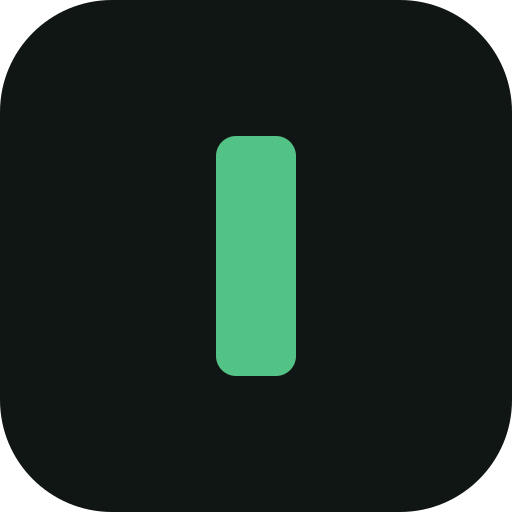
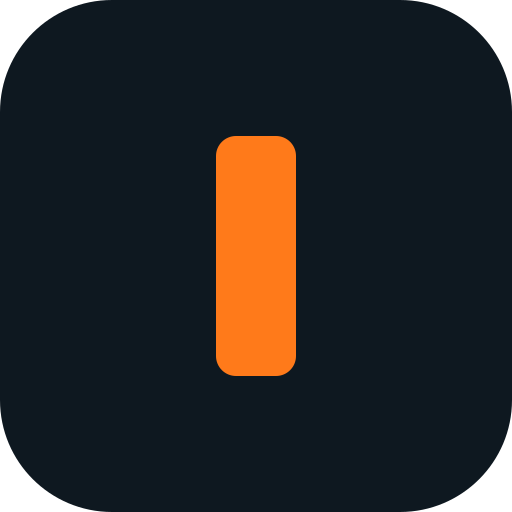
Profile: new mark colours and description to match the site

Changed region(s): [[0.4062, 0.25, 0.5938, 0.75]]

diff --git a/profile/README.md b/profile/README.md
@@ -1,15 +1,15 @@
 <div align="center">
   <img src="marchio.svg" width="88" alt="">
   <h1>mitis</h1>
-  <p><b>Boring cloud infrastructure. At half the cost.</b><br>
-  <sub>Infrastruttura cloud noiosa, e che costa la metà — Cloud & DevOps consultancy, Italy.</sub></p>
+  <p><b>We cut cloud spend and fix the infrastructure your software runs on.</b><br>
+  <sub>Riduciamo la spesa cloud e sistemiamo l'infrastruttura su cui gira il tuo software.</sub></p>
   <p><a href="https://mitis.dev">mitis.dev</a></p>
 </div>
 
-Cloud & DevOps consultancy for scaleups and SMBs. Platforms on AWS, GCP and
-Azure: Terraform + Atmos, Kubernetes, GitOps with ArgoCD, promotions with
-Kargo, FinOps as a daily practice. Fixed price with a guaranteed outcome, and
-every line of code in the client's repositories, from the first commit.
+A studio of cloud engineers for software companies on AWS, Google Cloud and
+Azure. Three services: cloud cost reduction, Kubernetes platforms, release
+automation. Free initial analysis, then a fixed price agreed in writing, and
+every line of code in the client's repositories from the first commit.
 
 ```console
 $ man mitis
@@ -32,5 +32,5 @@ a Kubernetes operator (Apache 2.0) for high availability of single-replica
 workloads. In a real spot interruption, measured on EKS: 1 request lost out
 of 764 — less than an ordinary rolling update.
 
-**Let's talk** — a technical call, not a demo:
-[mitis.dev](https://mitis.dev) · no sales reps, no pushy follow-ups.
+**Let's talk**: half an hour on a call with an engineer.
+[mitis.dev](https://mitis.dev)
